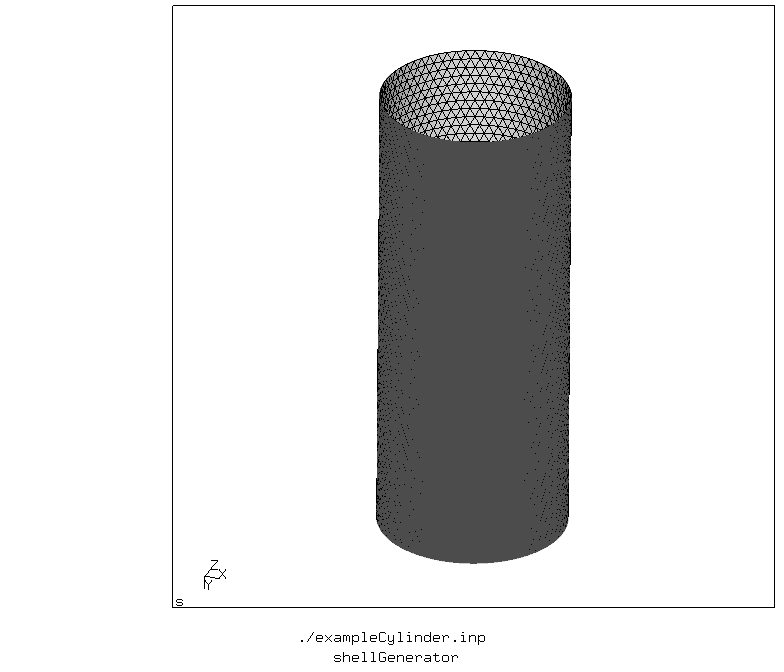
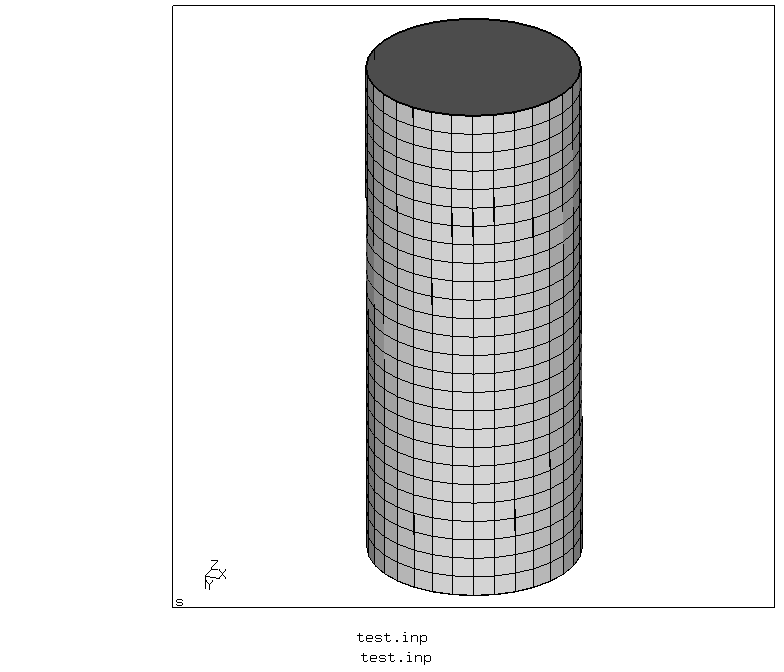
add more flexibility of finite element type

Changed region(s): [[0.4592, 0.0, 0.7653, 0.9062], [0.4286, 0.9375, 0.551, 1.0]]

diff --git a/shellGenerator/shell.go b/shellGenerator/shell.go
@@ -33,17 +33,8 @@ func maxInt(a, b int) int {
 	return b
 }
 
-// MeshType - type of mesh
-type MeshType int
-
-// Types of generated mesh
-const (
-	RegularMesh MeshType = iota
-	OffsetMesh
-)
-
 // GenerateMesh - Generate file in Mesh format for shell
-func (s Shell) GenerateMesh(mType MeshType, amountOfPointOnLevel, amountLevelsByHeight int) (m inp.Format, err error) {
+func (s Shell) GenerateMesh(amountOfPointOnLevel, amountLevelsByHeight int) (m inp.Format, err error) {
 	err = s.check()
 	if err != nil {
 		return m, err
@@ -53,22 +44,12 @@ func (s Shell) GenerateMesh(mType MeshType, amountOfPointOnLevel, amountLevelsBy
 	// init number of point, cannot be less 1
 	initPoint := 1
 
-	var iteratorOffset bool
 	var angleOffset float64
 
 	for level := 0; level <= amountLevelsByHeight; level++ {
 		elevation := deltaHeight * float64(level)
 		if level == amountLevelsByHeight {
 			elevation = s.Height
-		}
-		if mType == OffsetMesh {
-			if iteratorOffset {
-				iteratorOffset = false
-				angleOffset = 2. * float64(math.Pi) / float64(amountOfPointOnLevel) / 2.
-			} else {
-				iteratorOffset = true
-				angleOffset = 0
-			}
 		}
 		for i := 0; i < amountOfPointOnLevel; i++ {
 			angle := 2.*math.Pi/float64(amountOfPointOnLevel)*float64(i) + angleOffset
@@ -83,31 +64,26 @@ func (s Shell) GenerateMesh(mType MeshType, amountOfPointOnLevel, amountLevelsBy
 	}
 
 	// generate triangles
-	iteratorOffset = false
 	var shell inp.Element
 	shell.Name = "shell"
-	shell.ElType = inp.TypeCPS3
+	shell.FE, err = inp.GetFiniteElementByName("S4")
+	if err != nil {
+		return m, err
+	}
 	for level := 0; level < amountLevelsByHeight; level++ {
-		if iteratorOffset {
-			iteratorOffset = false
-		} else {
-			iteratorOffset = true
-		}
 		for i := 0; i < amountOfPointOnLevel; i++ {
 			if i+1 < amountOfPointOnLevel {
 				quardToTriangle(&shell,
 					int(i+amountOfPointOnLevel*level+initPoint),
 					int(i+1+amountOfPointOnLevel*level+initPoint),
 					int(i+amountOfPointOnLevel*(level+1)+initPoint),
-					int(i+1+amountOfPointOnLevel*(level+1)+initPoint),
-					iteratorOffset)
+					int(i+1+amountOfPointOnLevel*(level+1)+initPoint))
 			} else {
 				quardToTriangle(&shell,
 					int(i+amountOfPointOnLevel*level+initPoint),
 					int(0+amountOfPointOnLevel*level+initPoint),
 					int(i+amountOfPointOnLevel*(level+1)+initPoint),
-					int(0+amountOfPointOnLevel*(level+1)+initPoint),
-					iteratorOffset)
+					int(0+amountOfPointOnLevel*(level+1)+initPoint))
 			}
 		}
 	}
@@ -121,7 +97,7 @@ func (s Shell) GenerateMesh(mType MeshType, amountOfPointOnLevel, amountLevelsBy
 }
 
 // GenerateINP - Generate file in INP format for shell
-func (s Shell) GenerateINP(mType MeshType, filename string) (err error) {
+func (s Shell) GenerateINP(filename string) (err error) {
 	// generate first level of points
 	amountOfPointOnLevel := 4
 	if s.Precision < s.Diameter {
@@ -129,46 +105,23 @@ func (s Shell) GenerateINP(mType MeshType, filename string) (err error) {
 	}
 	amountLevelsByHeight := maxInt(2, int(s.Height/s.Precision+1))
 
-	m, err := s.GenerateMesh(mType, amountOfPointOnLevel, amountLevelsByHeight)
+	m, err := s.GenerateMesh(amountOfPointOnLevel, amountLevelsByHeight)
 	if err != nil {
 		return err
 	}
 	return m.Save(filename)
 }
 
-// Convert 4 points element to 2 triangle
-// type = false
+// Convert 4 points element to quatric element
 //  p3 *---* p4
-//     |  /|
-//     | / |
-//     |/  |
+//     |   |
+//     |   |
+//     |   |
 //  p1 *---* p2
-//
-// type = true
-//  p3 *---* p4
-//     |\  |
-//     | \ |
-//     |  \|
-//  p1 *---* p2
-func quardToTriangle(element *inp.Element, p1, p2, p3, p4 int, types bool) {
-	if types {
-		element.Data = append(element.Data, inp.ElementData{
-			Index:  -1,
-			IPoint: []int{p1, p3, p2},
-		})
-		element.Data = append(element.Data, inp.ElementData{
-			Index:  -1,
-			IPoint: []int{p2, p3, p4},
-		})
-		return
-	}
+func quardToTriangle(element *inp.Element, p1, p2, p3, p4 int) {
 	element.Data = append(element.Data, inp.ElementData{
 		Index:  -1,
-		IPoint: []int{p1, p4, p2},
-	})
-	element.Data = append(element.Data, inp.ElementData{
-		Index:  -1,
-		IPoint: []int{p1, p3, p4},
+		IPoint: []int{p1, p2, p4, p3},
 	})
 	return
 }

diff --git a/shellGenerator/shellStiff.go b/shellGenerator/shellStiff.go
@@ -30,8 +30,8 @@ func (s *ShellWithStiffiners) AddStiffiners(amountHorizStiff, amountVertStiff in
 	switch {
 	case amountHorizStiff < 0:
 		return fmt.Errorf("Error: Amount of horizontal stiffiners cannot be less zero")
-	case amountVertStiff < 3:
-		return fmt.Errorf("Error: Amount of vertical stiffiners cannot be less 3")
+	case amountVertStiff < 0:
+		return fmt.Errorf("Error: Amount of vertical stiffiners cannot be less zero")
 	case height <= 0:
 		return fmt.Errorf("Error: Height of stiffiners cannot be less or equal zero")
 	case precision <= 0:
@@ -68,7 +68,7 @@ func (s ShellWithStiffiners) GenerateINP(filename string) (err error) {
 	}
 	levels = maxInt(levels, regularLevels)
 
-	m, err := s.shell.GenerateMesh(RegularMesh, pointsOnLevels, levels)
+	m, err := s.shell.GenerateMesh(pointsOnLevels, levels)
 
 	// points //
 	initPoint := 1 + (levels+1)*pointsOnLevels
@@ -104,14 +104,17 @@ func (s ShellWithStiffiners) GenerateINP(filename string) (err error) {
 		delta := (levels + 1) * pointsOnLevels
 		var vertStiff inp.Element
 		vertStiff.Name = "VerticalStiffiners"
-		vertStiff.ElType = inp.TypeCPS3
+		vertStiff.FE, err = inp.GetFiniteElementByName("S4")
+		if err != nil {
+			return err
+		}
 		for vert := 0; vert < s.amountVertStiff; vert++ {
 			for level := 0; level < levels; level++ {
 				p1 := initPoint + vert*(pointsOnLevels/s.amountVertStiff) + pointsOnLevels*level
 				p2 := initPoint + vert*(pointsOnLevels/s.amountVertStiff) + pointsOnLevels*(level+1)
 				p3 := p1 + delta
 				p4 := p2 + delta
-				quardToTriangle(&vertStiff, p1, p2, p3, p4, true)
+				quardToTriangle(&vertStiff, p1, p2, p3, p4)
 			}
 		}
 		m.Elements = append(m.Elements, vertStiff)
@@ -121,7 +124,10 @@ func (s ShellWithStiffiners) GenerateINP(filename string) (err error) {
 		delta := (levels + 1) * pointsOnLevels
 		var horizStiff inp.Element
 		horizStiff.Name = "HorizontalStiffiners"
-		horizStiff.ElType = inp.TypeCPS3
+		horizStiff.FE, err = inp.GetFiniteElementByName("S4")
+		if err != nil {
+			return err
+		}
 		for horiz := 0; horiz < s.amountHorizStiff; horiz++ {
 			level := (horiz + 1) * deltaLevel
 			for i := 0; i < pointsOnLevels; i++ {
@@ -137,7 +143,7 @@ func (s ShellWithStiffiners) GenerateINP(filename string) (err error) {
 					p3 = p1 + delta
 					p4 = p2 + delta
 				}
-				quardToTriangle(&horizStiff, p1, p2, p3, p4, true)
+				quardToTriangle(&horizStiff, p1, p2, p3, p4)
 			}
 		}
 		m.Elements = append(m.Elements, horizStiff)

diff --git a/shellGenerator/shell_test.go b/shellGenerator/shell_test.go
@@ -13,7 +13,7 @@ func BenchmarkShellPoint_12(b *testing.B) {
 		_ = os.Remove(filename)
 		// test //
 		s := Shell{Height: 5.0, Diameter: 1.0, Precision: 2}
-		err := s.GenerateINP(OffsetMesh, filename)
+		err := s.GenerateINP(filename)
 
 		if err != nil {
 			fmt.Printf("Wrong mesh: %v\n", err)
@@ -30,7 +30,7 @@ func BenchmarkShellPoint_304(b *testing.B) {
 		_ = os.Remove(filename)
 		// test //
 		s := Shell{Height: 15.0, Diameter: 1.0, Precision: 0.4}
-		err := s.GenerateINP(OffsetMesh, filename)
+		err := s.GenerateINP(filename)
 
 		if err != nil {
 			fmt.Printf("Wrong mesh: %v\n", err)
@@ -48,7 +48,7 @@ func BenchmarkShellPoint_29704(b *testing.B) {
 
 		// test //
 		s := Shell{Height: 15.0, Diameter: 1.0, Precision: 0.04}
-		err := s.GenerateINP(OffsetMesh, filename)
+		err := s.GenerateINP(filename)
 
 		if err != nil {
 			fmt.Printf("Wrong mesh: %v\n", err)
@@ -64,7 +64,7 @@ func ExampleShell() {
 	_ = os.Remove(filename)
 
 	s := Shell{Height: 15.0, Diameter: 3.0, Precision: 0.4}
-	err := s.GenerateINP(OffsetMesh, filename)
+	err := s.GenerateINP(filename)
 	if err != nil {
 		fmt.Printf("Wrong mesh: %v\n", err)
 		return

diff --git a/README.md b/README.md
@@ -33,9 +33,9 @@ Cylinder
 	// remove file //
 	_ = os.Remove(filename)
 	// input data //
-	s := shellGenerator.Shell{Height: 5.0, Diameter: 2.0, Precision: 0.1}
+	s := shellGenerator.Shell{Height: 5.0, Diameter: 2.0, Precision: 0.2}
 	// write the result to INP format //
-	err := s.GenerateINP(shellGenerator.OffsetMesh, filename)
+	err := s.GenerateINP(filename)
 	if err != nil {
 		fmt.Printf("Wrong mesh: %v\n", err)
 		return
@@ -56,7 +56,7 @@ Cylinder with stiffiners
 		fmt.Printf("Wrong shell: %v\n", err)
 		return
 	}
-	if err := shellStiff.AddStiffiners(0, 6, 0.2, 0.5); err != nil {
+	if err := shellStiff.AddStiffiners(2, 6, 0.2, 0.5); err != nil {
 		fmt.Printf("Wrong stiffiner: %v\n", err)
 		return
 	}
